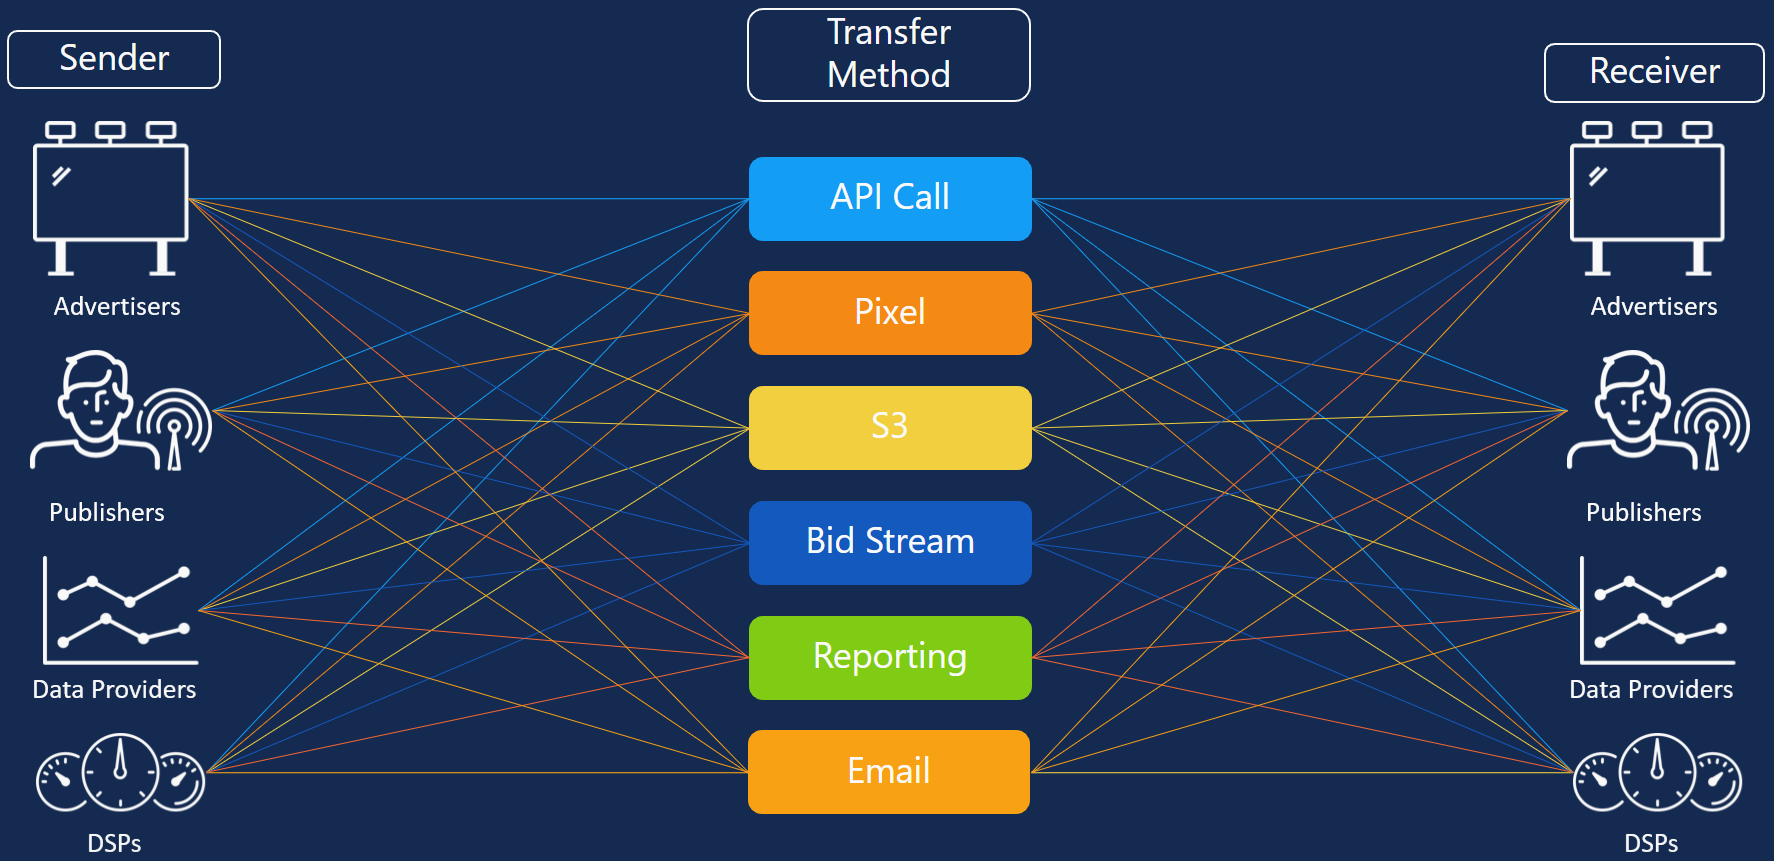
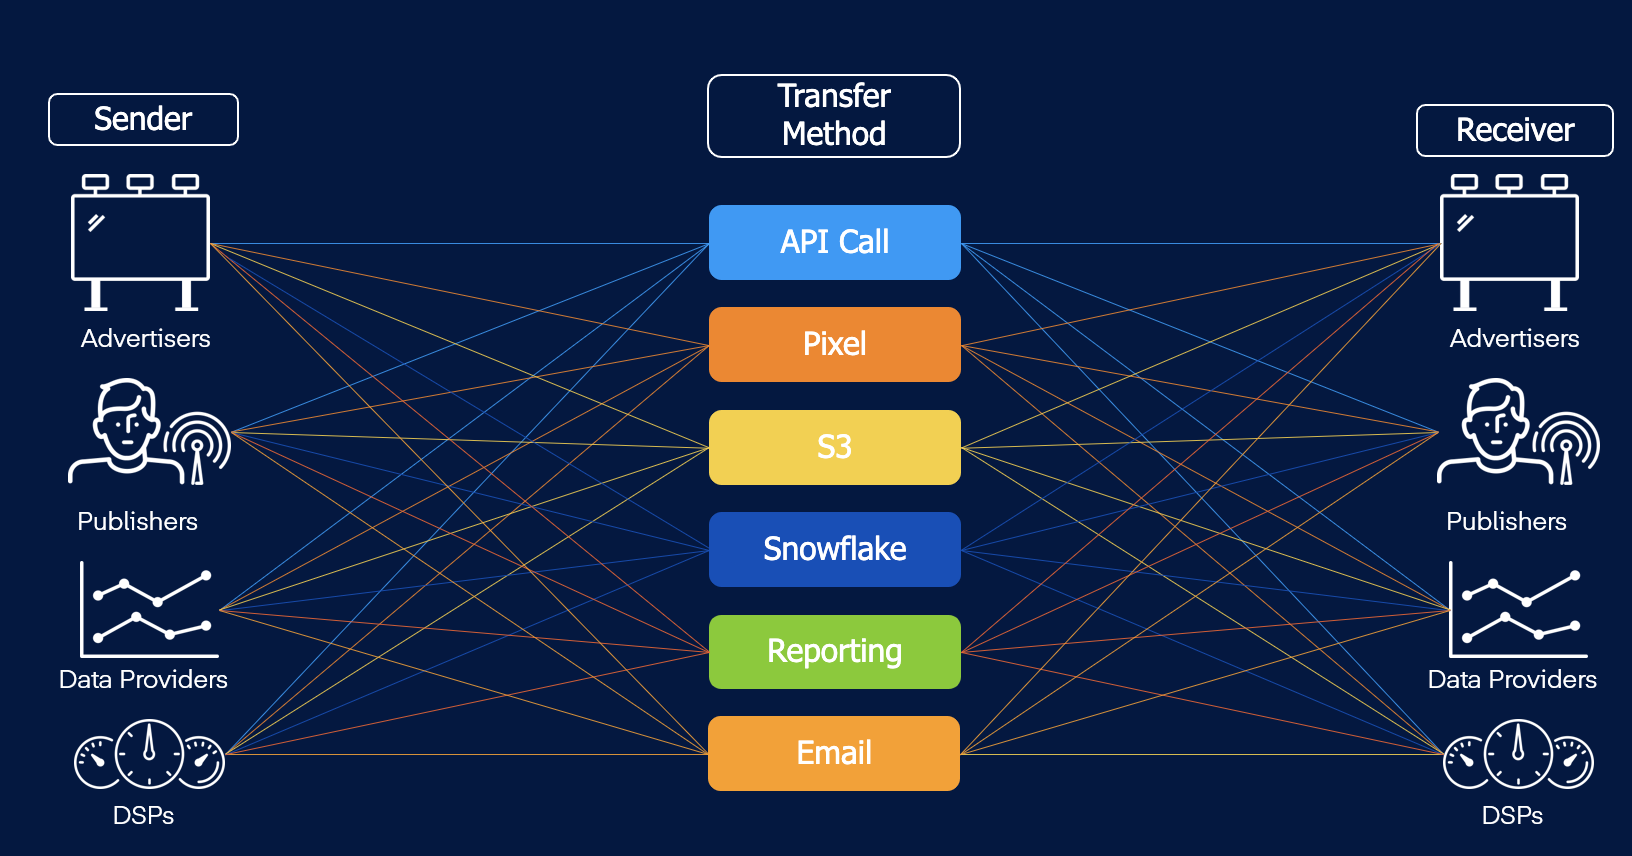
mods

Changed region(s): [[0.0, 0.0, 1.0, 1.0], [0.2188, 0.2734, 0.2812, 0.3037]]

diff --git a/docs/sharing/sharing-overview.md b/docs/sharing/sharing-overview.md
@@ -24,9 +24,31 @@ The UID2 sender specifies which receivers can decrypt their tokens, by configuri
 
 For example, let's say that an advertiser (sender) wants to share raw UID2s with a trusted sharing partner who is a DSP, for segment creation via an API. Using sharing, the advertiser can encrypt the raw UID2s into UID2 tokens and send them securely to the DSP (receiver). The DSP, who is also taking part in sharing, has access to the advertiser's decryption keys and can therefore decrypt the UID2 tokens into raw UID2s for segment creation.
 
-There are many scenarios for sharing. For details, see [Sharing Use Cases](sharing-use-cases)<!-- (**GWH_link issue here**) -->.
+There are many scenarios for sharing. For details, see [Sharing Use Cases](sharing-use-cases.md)<!-- (**GWH_link issue here**) -->.
+
+Additional resources:
+
+- [Implementing Sharing](sharing-implementing.md)
+- [Sharing UID2s: Best Practices](sharing-best-practices.md)
 
 ## UID2 Sharing Workflow
+
+(**GWH/KT below are Andrei's steps. But his steps and mine are repetitive. Thoughts?**)
+
+The workflow for sharing UID2 data consists of the following steps (each step is link to corresponding section):
+
+1. The sender defines which sharing participants are allowed to decrypt the sender's token.
+
+1. The sender uses a UID2 SDK or UID2 APIs to convert emails, phone numbers, or raw UID2s into UID2 tokens.
+
+1. The sender transmits the data containing UID2 tokens to the receiver.
+
+1. The receiver uses a UID2 SDK or UID2 APIs to decrypt raw UID2s from the received UID2 tokens.
+
+The following diagram illustrates the UID2 sharing pPermission SDK integration Workflow:
+
+![UID2 Sharing Permission SDK Integration Workflow](images/UID2_Sharing_Diagram_Integrate_SDK.png)
+
 The basic steps for sharing UID2 tokens within the ad tech ecosystem are as follows:
 
 - [One-Time Setup Steps](#one-time-setup-steps)
@@ -60,23 +82,17 @@ Receiver:
 1. Receiver: Receive the data, including UID2 tokens.
 1. Receiver: Decrypt the UID2 tokens into raw UID2s and use the raw UID2 data.
 
-UID2 Sharing Permission SDK Integration Workflow:
-
-![UID2 Sharing Permission SDK Integration Workflow](images/UID2_Sharing_Diagram_Integrate_SDK.png)
-
  ## Generating Tokens for UID2 Sharing
 
-When a participant is sending a UID2 to another participant, the raw UID2 must be encrypted into a UID2 token.   
+When a sharing participant is sending a UID2 to another sharing participant, the raw UID2 must be encrypted into a UID2 token.   
 
-For example, when a participant sends a UID2 outside the participant infrastructure, such as to an API endpoint or to a location such as S3 where it is accessible to another participant, the UID2 must be encrypted into a UID2 token.
+For example, when a sharing participant sends a UID2 outside the participant infrastructure, such as to an API endpoint or to a location such as S3 where it is accessible to another participant, the UID2 must be encrypted into a UID2 token.
 
 There are two ways that you can generate a UID2 token, and the correct way to generate the token depends on the usage scenario:
-- UID2 token for use in the bid stream: convert the input email address or phone number directly to a UID2 token. See [Token Example for Bid Stream](#token-example-for-bid-stream).
-- UID2 token for sharing: convert the input email address or phone number to a raw UID2, and then to a UID2 token. See [Token Example for Sharing](#token-example-for-sharing).
+- UID2 token for use in the bid stream: convert the input email address or phone number directly to a UID2 token.<!--  See [Token Example for Bid Stream](#token-example-for-bid-stream). -->
+- UID2 token for sharing (the only valid way for sharing): convert the input email address or phone number to a raw UID2, and then to a UID2 token. See [Token Example for Sharing](#token-example-for-sharing).
 
 The correct way to generate the token depends on the scenario, as shown in the following table. All scenarios except the first one apply to sharing UID2s.
-
-{**GWH_KT_06 Last comment... I could combine the last four rows. I still think the content is better this way than having encryption method first.**}
 
 | Use Case | Encryption Method |
 | :--- | :--- |
@@ -90,41 +106,6 @@ The correct way to generate the token depends on the scenario, as shown in the f
 | :--- | :--- |
 | Bid stream | [POST /token/generate](../endpoints/post-token-generate.md) endpoint when using the UID2 API, or corresponding function in a UID2 SDK. |
 | API<br/>File transfer<br/>Pixel<br/>All other sharing use cases | Sharing `encrypt()` function in the corresponding server-side SDK: see [Steps to Implement Sharing](sharing-implementing.md#steps-to-implement-sharing). | -->
-
-### Token Example for Bid Stream
-
-UID2 participants who don't need to store the raw UID2&#8212;for example, publishers&#8212;can convert the input email address or phone number directly to a UID2 token in one operation, as shown in the following example.
-
-<table>
-<colgroup>
-    <col style={{
-      width: "30%"
-    }} />
-    <col style={{
-      width: "40%"
-    }} />
-    <col style={{
-      width: "30%"
-    }} />
-   
-  </colgroup>
-<thead>
-<tr>
-<th>Input Example</th>
-<th>Process/User</th>
-<th >Result</th>
-</tr>
-</thead>
-<tbody>
-<tr>
-<td>user@example.com</td>
-<td>Conversion to a UID2 token, used in the bid stream, using the <a href="../endpoints/post-token-generate">POST /token/generate</a> endpoint.<br/>If you're using an SDK, the SDK manages token generation.</td>
-<td style={{
-  wordBreak: "break-all"
-}}>KlKKKfE66A7xBnL/DsT1UV/Q+V/r3xwKL89Wp7hpNllxmNkPaF8vdzenDvfoatn6sSXbFf5DfW9wwbdDwMnnOVpPxojkb8KYSGUte/FLSHtg4CLKMX52UPRV7H9UbWYvXgXC4PaVrGp/Jl5zaxPIDbAW0chULHxS+3zQCiiwHbIHshM+oJ==</td>
-</tr>
-</tbody>
-</table>
 
 ### Token Example for Sharing
 
@@ -172,19 +153,16 @@ The UID2 token is designed so that it can be seen by all but can only be used by
 
 For example, UID2 tokens are habitually passed through the bid stream from a publisher to a DSP. Although a UID2 token might go through several parties, such as an SSP, it can be decrypted only by an authorized UID2 participant. On its journey through the bid stream, the UID2 token can safely pass through one or more intermediaries.
 
+The same is true of UID2 tokens generated for sharing. (**GWH_KT is this OK? We needed to have the pass-through section, and it talks about publishers and the bid stream, so I added this line.**)
+
 ## UID2 Portal Sharing Permissions
 
-With a sharing permission enabled, a sharing participant who receives an encrypted UID2 token can decrypt the UID2 token into a raw UID2. The sharing options available include the following:
+For the intended receiver of UID2 tokens to be able to decrypt them into raw UID2s, the sender must grant permission to the receiver. Sharing permissions are defined through the UID2 Portal (**GWH_KT do I need to say, through the UID2 Portal when available, and until then ask your UID2 contact? Or...? I believe this will be published before the portal doc.**).
 
-- Individual selection of sharing participants
+The following sharing options are available via the UID2 Portal. These options are not mutually exclusive; you can mix and match as needed:
 
-   A participant can choose to share with one or more participants by individually selecting each participant.
-
-- Automatic sharing with all participants of a specific type
-
-  A participant can choose to share with all participants of one or more participant types, such as all Publishers, Advertisers, DSPs, or Data Providers.  
-
-  If you choose this option, all new participants of the selected participant type will automatically have permission to decrypt any data that you send to them. For details, see [Encryption/Decryption Key Refresh Cadence for Sharing](sharing-best-practices.md#encryptiondecryption-key-refresh-cadence-for-sharing).
+- You can automatically grant permission to all participants of a specific type, such as all Publishers, Advertisers, DSPs, or Data Providers.<!--  (link to sub-section) --> For example, we recommend that publishers grant sharing permission to all DSPs.
+- You can grant permission to one or more specific participants<!--  (link to sub-section) -->. If you choose this option, all new participants of the selected participant type will automatically have permission to decrypt any data that you send to them. For details, see [Encryption/Decryption Key Refresh Cadence for Sharing](sharing-best-practices.md#encryptiondecryption-key-refresh-cadence-for-sharing).
 
   For example, let's say you choose to share with all of 20 existing DSPs. The next day, when DSP 21 signs up for sharing, DSP 21 will automatically have permission to decrypt data that you send. To share with DSP 21, just send one or more encrypted UID2 tokens and DSP 21 will be able to decrypt the tokens into raw UID2s. Because you chose automatic sharing, you do not need to log in to explicitly update your sharing permissions to include DSP 21, or any future DSPs that sign up for the UID2 ecosystem. You can update your sharing permission in the UID2 Portal at any point.
 
@@ -192,7 +170,8 @@ With a sharing permission enabled, a sharing participant who receives an encrypt
 
 At a high level, enabling sharing permissions includes the following steps. For exact instructions for configuring your sharing options in the UID2 Portal, refer to [Sharing Permissions](../portal/sharing-permissions.md).
 
-1. Integrate the SDK into your code.
+>NOTE: As well as granting sharing permission, you'll need to integrate the SDK into your code.
+
 1. Log in to the UID2 Portal account.
 1. Click **Sharing Permissions**.
 1. Do one of the following:

diff --git a/docs/sharing/sharing-implementing.md b/docs/sharing/sharing-implementing.md
@@ -11,17 +11,24 @@ sidebar_position: 03
 
 <!-- It includes the following:
 
-- [Steps to Implement Sharing](#steps-to-implement-sharing) -->
+- [Steps to Implement Sharing With an SDK](#steps-to-implement-sharing-with-an-sdk)
+- [Steps to Implement Sharing Using Snowflake](#steps-to-implement-sharing-using-snowflake) 
+- [Encryption/Decryption Key Refresh Cadence for Sharing (SDK Only)](#encryptiondecryption-key-refresh-cadence-for-sharing-sdk-only) -->
 
 Setting up UID2 sharing requires some steps by each participant:
 - The sender, who sends encrypted UID2 tokens to an authorized sharing participant.
 - The receiver, who receives the encrypted UID2 tokens and decrypts them.
 
+Choose from the following, depending on the integration option you're using:
+
+- [Steps to Implement Sharing With an SDK](#steps-to-implement-sharing-with-an-sdk)
+- [Steps to Implement Sharing Using Snowflake](#steps-to-implement-sharing-using-snowflake)
+
 ## Steps to Implement Sharing With an SDK
 
-The following steps are for all sharing participants&#8212;senders and receivers.
+The following steps are for all sharing participants who are using an SDK&#8212;senders and receivers.
 
-1. Decide which SDK or integration tool to use, from the following options, and review the examples in the applicable sharing documentation to see what the sharing code might look like.
+1. Decide which SDK to use, from the following options, and review the examples in the applicable sharing documentation to see what the sharing code might look like.
 
    | SDK/Integration Tool | Link to Sharing Section |
    | :--- | :--- | 
@@ -29,37 +36,52 @@ The following steps are for all sharing participants&#8212;senders and receivers
    | C++ | [UID2 SDK for C++: Usage for UID2 Sharers](../sdks/uid2-sdk-ref-cplusplus.md#usage-for-uid2-sharers) |
    | Java | [UID2 SDK for Java: Usage for UID2 Sharers](../sdks/uid2-sdk-ref-java.md#usage-for-uid2-sharers) |
    | Python | [UID2 SDK for Python: Usage for UID2 Sharers](../sdks/uid2-sdk-ref-python.md#usage-for-uid2-sharers) |
-   Snowflake TBD GWH TO LINK TO SNOWFLAKE SHARING SECTION../guides/snowflake_integration.md
 
 2. Integrate the SDK into your code to implement each step, depending on whether your role is sender or receiver. To see code examples for the language you're using, follow the link in the table provided in Step 1.
    1. Both senders and receivers: define the UID2 client.
    
-   2. Both senders and receivers: define the token refresh schedule. Recommended refresh interval is hourly. For an example, see [Encryption/Decryption Key Refresh Cadence for Sharing](sharing-best-practices#encryptiondecryption-key-refresh-cadence-for-sharing).
+   2. Both senders and receivers: define the token refresh schedule. Recommended refresh interval is hourly. For an example, see [Encryption/Decryption Key Refresh Cadence for Sharing (SDK Only)](#encryptiondecryption-key-refresh-cadence-for-sharing-sdk-only).
 
    3. Senders, set up encryption.
 
    4. Receivers, set up decryption.
 
 ## Steps to Implement Sharing Using Snowflake
-(GWH to work on this section)
 
-The following steps are for all sharing participants&#8212;senders and receivers.
+The following steps are for all Snowflake users who want to take part in UID2 sharing, either as senders or receivers.
 
-1. Decide which SDK or integration tool to use, from the following options, and review the examples in the applicable sharing documentation to see what the sharing code might look like.
+1. Review the examples in [Snowflake Integration Guide: Usage for UID2 Sharers](../guides/snowflake_integration.md#usage-for-uid2-sharers) to see what the sharing code might look like.
 
-   | SDK/Integration Tool | Link to Sharing Section |
-   | :--- | :--- | 
-   | C# / .NET | [UID2 SDK for C# / .NET: Usage for UID2 Sharers](../sdks/uid2-sdk-ref-csharp-dotnet.md#usage-for-uid2-sharers) |
-   | C++ | [UID2 SDK for C++: Usage for UID2 Sharers](../sdks/uid2-sdk-ref-cplusplus.md#usage-for-uid2-sharers) |
-   | Java | [UID2 SDK for Java: Usage for UID2 Sharers](../sdks/uid2-sdk-ref-java.md#usage-for-uid2-sharers) |
-   | Python | [UID2 SDK for Python: Usage for UID2 Sharers](../sdks/uid2-sdk-ref-python.md#usage-for-uid2-sharers) |
-<!--    Snowflake TBD GWH TO LINK TO SNOWFLAKE SHARING SECTION../guides/snowflake_integration.md -->
+2. Integrate the SDK into your code, according to whether your role is sender or receiver. Use the code examples in the documentation referenced in step 1.
 
-2. Integrate the SDK into your code to implement each step, depending on whether your role is sender or receiver. To see code examples for the language you're using, follow the link in the table provided in Step 1.
-   1. Both senders and receivers: define the UID2 client.
-   
-   2. Both senders and receivers: define the token refresh schedule. Recommended refresh interval is hourly.
+   - Senders, set up encryption.
 
-   3. Senders, set up encryption.
+   - Receivers, set up decryption.
 
-   4. Receivers, set up decryption.
+## Encryption/Decryption Key Refresh Cadence for Sharing (SDK Only)
+
+If you're using an SDK, defining the token refresh schedule is step 2.
+
+For long/continuously running processes, call the `uid2client.refresh()` function once per hour. This allows the SDK to fetch the latest keys for decryption. When a new sharing permission is enabled, the additional set of encryption keys needed to decrypt the data sent by the sharing sender is returned the next time the sharing receiver calls the `uid2client.refresh()` function. This process is handled by the SDK.
+
+>NOTE: If you're using Snowflake, you don't need to set up the token refresh schedule.
+
+### Decryption Key Refresh Example
+
+This example illustrates how the `uid2client.refresh()` function enables a new sharing permission. In this example, Advertiser ABC wants to send data to Data Provider XYZ.
+
+1. 12:00 pm:
+
+   The sharing permission is not yet enabled.
+
+   Data Provider XYZ calls `uid2client.refresh()`. The decryption key for Advertiser ABC is not returned, so sharing cannot occur.
+
+2. 12:30 pm:
+
+   Advertiser ABC logs in to the UID2 Portal and creates a sharing permission with Data Provider XYZ.
+
+3. 1:00 pm:
+
+   Data Provider XYZ, on an hourly cadence, again calls `uid2client.refresh()`. Because there is a new sharing permission, the key for Advertiser ABC is returned in the response.
+
+   Data Provider XYZ can now decrypt any UID2 token received from Advertiser ABC into a raw UID2.

diff --git a/docs/sharing/sharing-best-practices.md b/docs/sharing/sharing-best-practices.md
@@ -21,7 +21,7 @@ However, every UID2 participant has a responsibility to maintain the security of
 ## Best Practices for Managing Raw UID2s
 
 Follow these guidelines:
-- For any UID2s that are in your platform, use and store them as raw UID2s, not as UID2 tokens.
+- For any UID2s that are in your platform, use and store them as raw UID2s, not as UID2 tokens. (**GWH_KT this was the question for Zaiwei**)
 - In your code, for future extensibility, we recommend allowing for a maximum UID2 token length of 100 characters.
 
 ## Best Practices for Managing UID2 Tokens
@@ -34,26 +34,13 @@ Follow these guidelines:
 
 - In your code, for future extensibility, we recommend allowing for a maximum UID2 token length of 500 characters.
 
-## Encryption/Decryption Key Refresh Cadence for Sharing
+## Key Refresh Cadence
 
-For long/continuously running processes, call the `uid2client.refresh()` function once per hour. This allows the SDK to fetch the latest keys for decryption. When a new sharing permission is enabled, the additional set of encryption keys needed to decrypt the data sent by the sharing sender is returned the next time the sharing receiver calls the `uid2client.refresh()` function. This process is handled by the SDK.
+For long/continuously running processes, call the `uid2client.refresh()` function once per hour. 
 
-### Decryption Key Refresh Example
+The following are reasons to refresh the keys on an hourly cadence:
 
-This example illustrates how the `uid2client.refresh()` function enables a new sharing permission. In this example, Advertiser ABC wants to send data to Data Provider XYZ.
+- Regular refresh allows the SDK to fetch the latest keys for decryption.
+- The UID2 framework periodically rotates encryption keys.
 
-1. 12:00 pm:
-
-   The sharing permission is not yet enabled.
-
-   Data Provider XYZ calls `uid2client.refresh()`. The decryption key for Advertiser ABC is not returned, so sharing cannot occur.
-
-2. 12:30 pm:
-
-   Advertiser ABC logs in to the UID2 Portal and creates a sharing permission with Data Provider XYZ.
-
-3. 1:00 pm:
-
-   Data Provider XYZ, on an hourly cadence, again calls `uid2client.refresh()`. Because there is a new sharing permission, the key for Advertiser ABC is returned in the response.
-
-   Data Provider XYZ can now decrypt any UID2 token received from Advertiser ABC into a raw UID2.  
+For details, see [Encryption/Decryption Key Refresh Cadence for Sharing (SDK Only)](sharing-implementing.md#encryptiondecryption-key-refresh-cadence-for-sharing-sdk-only)

diff --git a/docs/sharing/sharing-use-cases.md b/docs/sharing/sharing-use-cases.md
@@ -9,9 +9,9 @@ sidebar_position: 03
 
 There are many ways to implement sharing&#8212;many different examples of senders, receivers, and transfer methods.
 
-When you use this feature, the secure sharing workflow allows you to share with trusted partners. For example, here are a few sample scenarios where a sender wants to share UID2s with receiver: 
+When you use this feature, the secure sharing workflow allows you to share with trusted partners. For example, here are a few sample scenarios where a sender wants to share UID2s with a receiver: 
 
-- A publisher (sender) sends a UID2 token via the bid stream to a DSP (receiver).
+- A publisher (sender) sends a UID2 token via the bid stream to a DSP (receiver). {**GWH_KT This is not a sharing example... correct?**}
 - A measurement partner (sender) sends a UID2 token to an advertiser (receiver) via Amazon Simple Storage Service (S3).
 - A DSP (sender) sends a UID2 token to an advertiser (receiver) via reporting.
 
